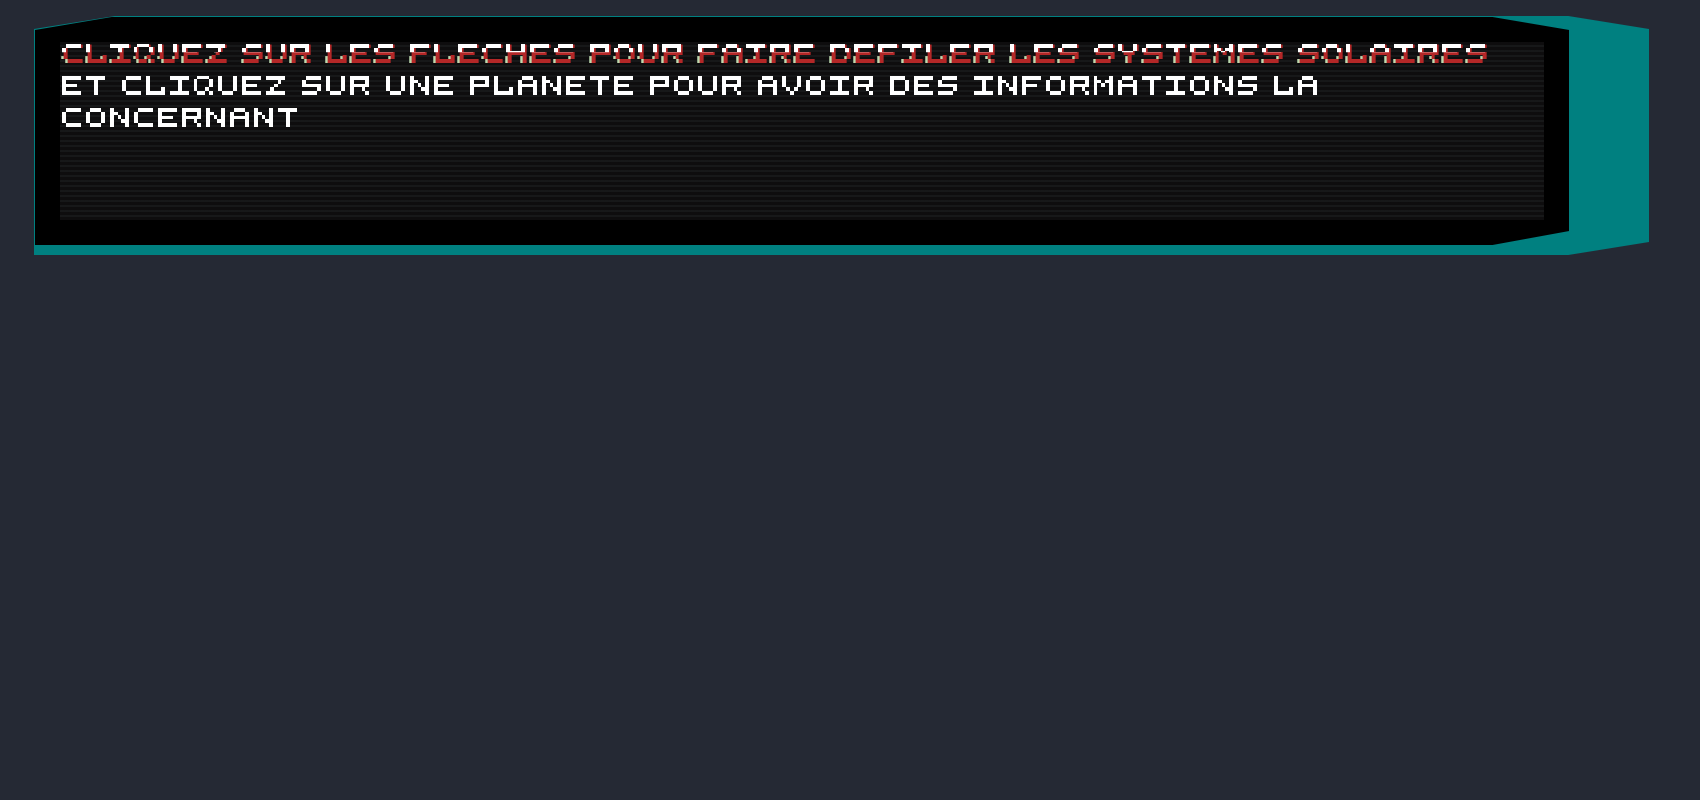
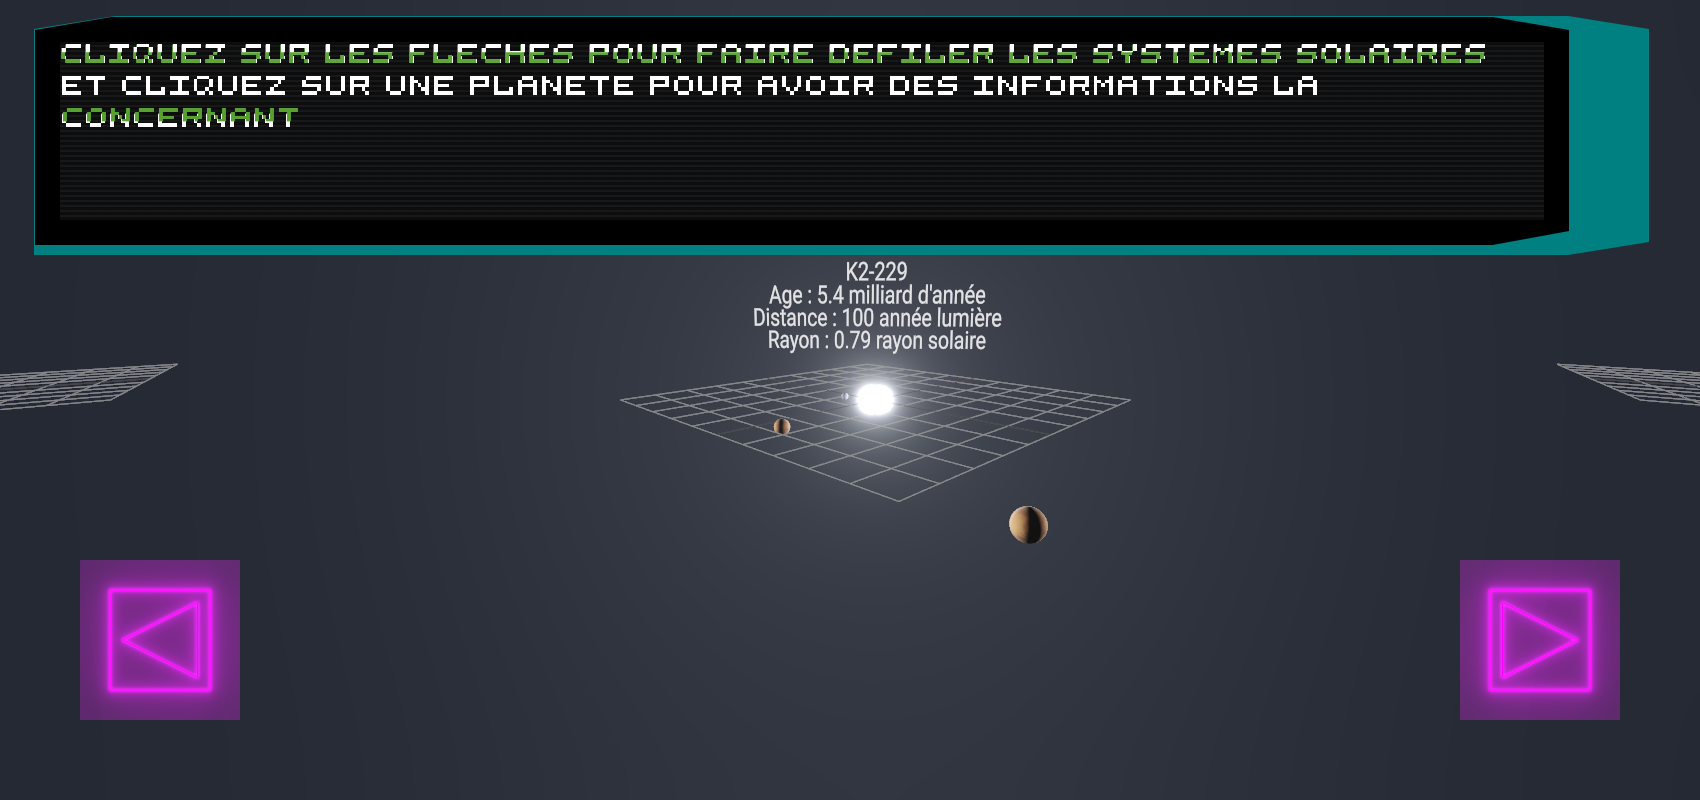
test: update test_photo1.png and cloud_vision.test.js

diff --git a/test/cloud_vision.test.js b/test/cloud_vision.test.js
@@ -19,7 +19,6 @@ import "@testing-library/jest-dom";
 // import PanelGauche from "../components_planet/PanneauMobile";
 // import React from "react";
 
-
 function sleep(ms) {
   return new Promise((resolve) => setTimeout(resolve, ms));
 }
@@ -53,7 +52,11 @@ async function deleteFile(filePath) {
 
 test("Texte centrale", async () => {
   const browser = await puppeteer.launch({
+    //config serveur
     headless: true,
+
+    //config pc
+    // headless: false,
     // product: "chrome",
 
     // args: ["--no-sandbox","--disable-setuid-sandbox"],
@@ -63,6 +66,7 @@ test("Texte centrale", async () => {
     slowMo: 50,
   });
   const page = await browser.newPage();
+  // problème de timeout uniquement
   await page.setDefaultNavigationTimeout(10000);
   await page.goto("https://amaurypichat.fr/dev/planet", {
     // waitUntil: "networkidle0",
@@ -71,14 +75,14 @@ test("Texte centrale", async () => {
   deleteFile("image/test_photo1.png");
 
   // sleep(30000).then(async () => {
-  // const element = await page.waitForSelector("#div_canvas1");
+  const element = await page.waitForSelector("#div_canvas1");
 
   // await element.click();
-  // const [response] = await Promise.all([
-  //   page.waitForSelector("#div_canvas1"),
-  //   element.click(),
-  //   sleep(10000) 
-  // ]);
+  const [response] = await Promise.all([
+    page.waitForSelector("#div_canvas1"),
+    element.click(),
+    sleep(10000),
+  ]);
   // });
 
   const image = await page.screenshot({
@@ -88,19 +92,18 @@ test("Texte centrale", async () => {
   const client = new vision.ImageAnnotatorClient({
     projectId: "turing-position-236722",
     // credentials:
-    keyFilename:'turing-position-236722-f66db215fe06.json'
+    keyFilename: "turing-position-236722-f66db215fe06.json",
   });
-//   console.log("reeeeeeeee")
 
   const fileName =
     "test/__image_snapshots__/screencapture-test-js-create-react-app-home-1-snap.png";
 
-//   // Performs text detection on the local file
+  //   // Performs text detection on the local file
   const [result] = await client.textDetection("image/test_photo1.png");
   const detections = result.textAnnotations;
-//   console.log("Text:");
-//   detections.forEach((text) => console.log(text[0]));
-//   detections.forEach((text) => console.log(text[0]));
+  //   console.log("Text:");
+  //   detections.forEach((text) => console.log(text[0]));
+  //   detections.forEach((text) => console.log(text[0]));
   console.log(detections[0].description);
   var distance = levenshtein(
     detections[0].description,
@@ -110,5 +113,4 @@ test("Texte centrale", async () => {
   expect(distance).toBeLessThanOrEqual(5);
 
   await browser.close();
-
-},50000);
+}, 50000);
